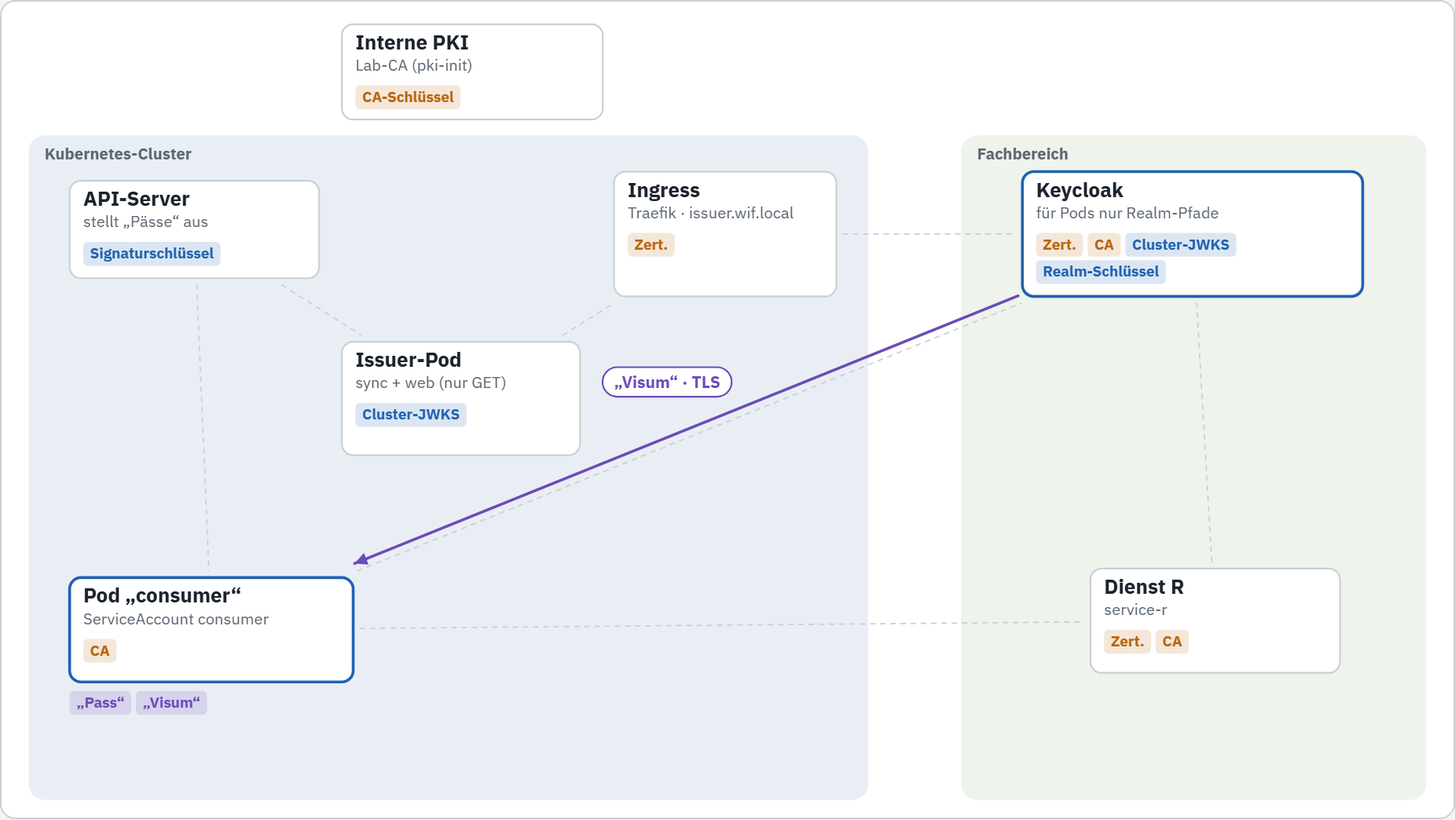
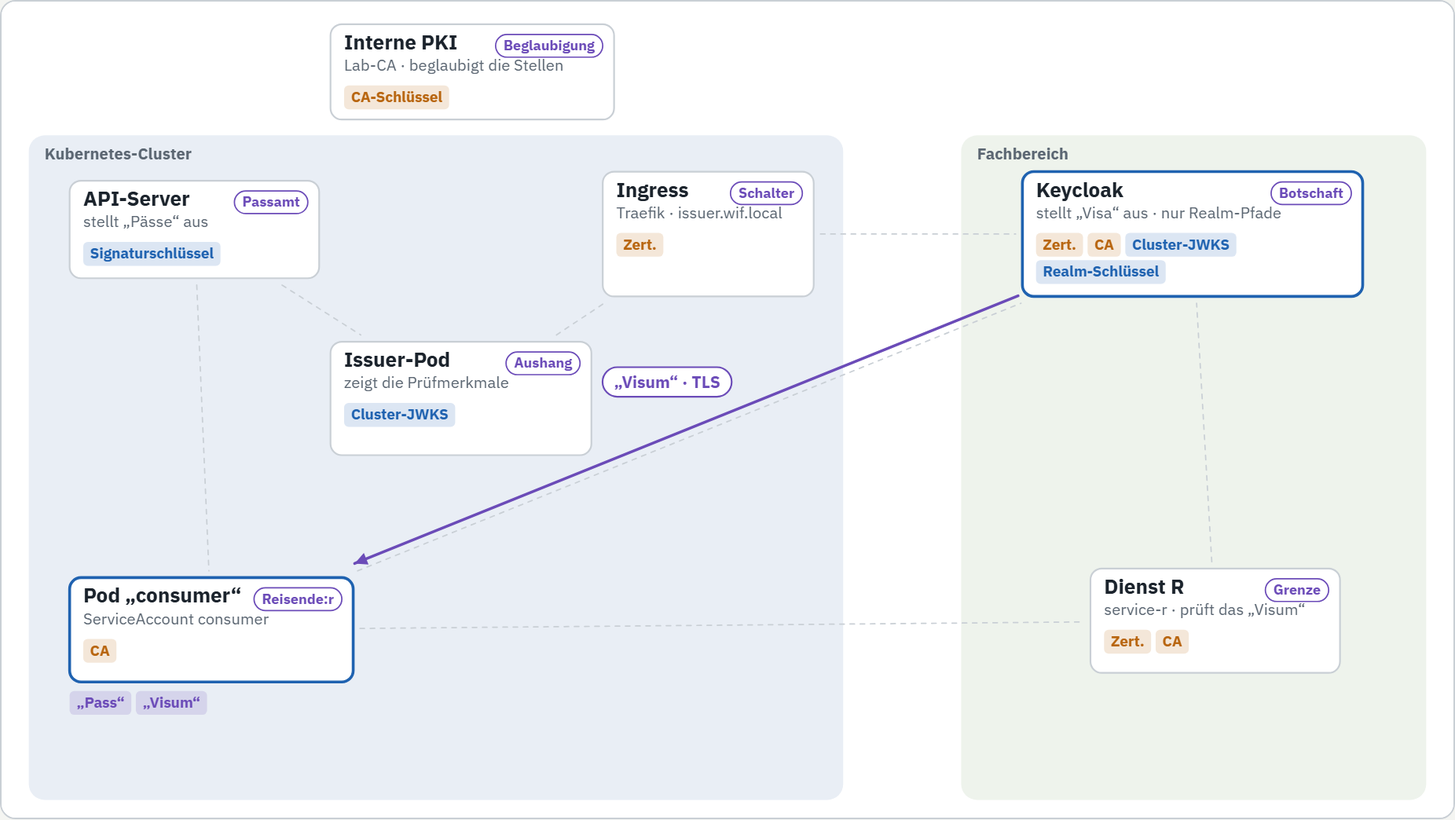
docs: carry the passport/visa picture through the animation
Every node shows its technical name and its role in the picture
(Passamt, Aushang, Schalter, Reisende:r, Botschaft, Grenze,
Beglaubigung), using the terms of the slide "idee". Labels and step
texts name JWKS as "Prüfmerkmale" alongside the technical term; the
header maps the analogy to the technical names. Still image and
offline build regenerated.

diff --git a/docs/praesentation/offline/animation.html b/docs/praesentation/offline/animation.html
@@ -90,7 +90,7 @@ body.embed .panel { max-height: 100vh; overflow-y: auto; }
 <body>
 <header>
   <h1>Workload Identity Federation: Ablauf Schritt für Schritt</h1>
-  <p>PoC k8s-workload-identity-federation-lab · vom „Pass“ zum „Visum“ bis zum Aufruf von Dienst R · jeder Schritt per Klick</p>
+  <p>PoC k8s-workload-identity-federation-lab · „Pass“ = ServiceAccount-Token · „Visum“ = Access-Token · „Prüfmerkmale“ = JWKS · jeder Schritt per Klick</p>
 </header>
 <div class="stage">
   <div>
@@ -102,6 +102,7 @@ body.embed .panel { max-height: 100vh; overflow-y: auto; }
       <span><i style="background:var(--ok)"></i>erfolgreich</span>
       <span><i style="background:var(--bad)"></i>abgelehnt</span>
       <span><i style="background:transparent; border:1.5px dashed var(--line)"></i>mögliche Verbindung</span>
+      <span><i style="background:transparent; border:1.5px solid var(--token); border-radius:6px; width:20px"></i>Rolle im Bild „Pass und Visum“</span>
     </div>
   </div>
   <aside class="panel" aria-live="polite">
@@ -127,16 +128,16 @@ const W = 1280, H = 720;
 
 // Knoten im Entwurfsraster 1280 x 720
 const N = {
-  pki: { x: 300, y: 20,  w: 230, h: 84, t: "Interne PKI", s: "Lab-CA (pki-init)" },
-  api: { x: 60,  y: 158, w: 220, h: 86, t: "API-Server", s: "stellt „Pässe“ aus" },
-  iss: { x: 300, y: 300, w: 210, h: 100, t: "Issuer-Pod", s: "sync + web (nur GET)" },
-  pod: { x: 60,  y: 508, w: 250, h: 92, t: "Pod „consumer“", s: "ServiceAccount consumer" },
-  ing: { x: 540, y: 150, w: 196, h: 110, t: "Ingress", s: "Traefik · issuer.wif.local" },
-  kc:  { x: 900, y: 150, w: 300, h: 110, t: "Keycloak", s: "für Pods nur Realm-Pfade" },
-  r:   { x: 960, y: 500, w: 220, h: 92, t: "Dienst R", s: "service-r" }
+  pki: { x: 290, y: 20,  w: 250, h: 84, t: "Interne PKI", a: "Beglaubigung", s: "Lab-CA · beglaubigt die Stellen" },
+  api: { x: 60,  y: 158, w: 220, h: 86, t: "API-Server", a: "Passamt", s: "stellt „Pässe“ aus" },
+  iss: { x: 290, y: 300, w: 230, h: 100, t: "Issuer-Pod", a: "Aushang", s: "zeigt die Prüfmerkmale" },
+  pod: { x: 60,  y: 508, w: 250, h: 92, t: "Pod „consumer“", a: "Reisende:r", s: "ServiceAccount consumer" },
+  ing: { x: 530, y: 150, w: 186, h: 110, t: "Ingress", a: "Schalter", s: "Traefik · issuer.wif.local" },
+  kc:  { x: 900, y: 150, w: 300, h: 110, t: "Keycloak", a: "Botschaft", s: "stellt „Visa“ aus · nur Realm-Pfade" },
+  r:   { x: 960, y: 500, w: 220, h: 92, t: "Dienst R", a: "Grenze", s: "service-r · prüft das „Visum“" }
 };
 const ZONES = [
-  { x: 24, y: 118, w: 740, h: 586, label: "Kubernetes-Cluster", tone: "zone-a" },
+  { x: 24, y: 118, w: 718, h: 586, label: "Kubernetes-Cluster", tone: "zone-a" },
   { x: 846, y: 118, w: 410, h: 586, label: "Fachbereich", tone: "zone-b" }
 ];
 
@@ -150,23 +151,23 @@ const blkTo = (a, x, y, side, text) => ({ k: "block", a, x, y, side, text });
 
 const STEPS = [
   { ph: 0, title: "Überblick: „Pass“, „Visum“, Aufruf",
-    text: "Der Pod bekommt vom Cluster einen „Pass“, tauscht ihn bei Keycloak seines Fachbereichs gegen ein „Visum“ und ruft damit Dienst R auf. Im Pod liegt dafür weder ein Passwort noch ein Client-Zertifikat. Die folgenden Schritte zeigen, was im Hintergrund nötig ist, damit das sicher funktioniert.",
+    text: "Der Pod („Reisende:r“) bekommt vom API-Server des Clusters („Passamt“) einen „Pass“: das ServiceAccount-Token. Bei Keycloak, der „Botschaft“ seines Fachbereichs, tauscht er ihn gegen ein „Visum“, das Access-Token, und zeigt es bei Dienst R („Grenze“) vor. Im Pod liegt dafür weder ein Passwort noch ein Client-Zertifikat. Die folgenden Schritte zeigen, was im Hintergrund nötig ist, damit das sicher funktioniert.",
     il: "", inspect: "",
     segs: [par(mv("api", "pod", "„Pass“", "token"), mv("pod", "kc", "„Pass“ zeigen", "token"), mv("kc", "pod", "„Visum“", "token"), mv("pod", "r", "„Visum“ zeigen", "token"))],
     fx: null },
 
   { ph: 1, title: "Die interne PKI sichert die Verbindungen",
-    text: "Die interne PKI (im Lab: pki-init) stellt Serverzertifikate für den Ingress des Clusters, Keycloak und Dienst R aus. Alle, die eine Gegenstelle prüfen, bekommen das Root-Zertifikat der CA fest hinterlegt. Ein Client-Zertifikat bekommt niemand – weder eine Workload noch eine Komponente des Clusters. Wichtig: Die PKI sichert nur die Verbindungen (TLS). Wer der Pod ist, steht später im „Pass“, nicht in einem Zertifikat.",
+    text: "Die interne PKI (im Lab: pki-init) ist die „Beglaubigung“: Sie bestätigt, dass die Stellen echt sind, und stellt dafür Serverzertifikate für den Ingress des Clusters, Keycloak und Dienst R aus. Alle, die eine Gegenstelle prüfen, bekommen das Root-Zertifikat der CA fest hinterlegt. Ein Client-Zertifikat bekommt niemand – weder eine Workload noch eine Komponente des Clusters. Wichtig: Die PKI sichert nur die Verbindungen (TLS). Wer der Pod ist, steht später im „Pass“, nicht in einem Zertifikat.",
     il: "Wer bekommt was", inspect: "Ingress    Server-Zert. issuer.wif.local\nKeycloak   Server-Zert. + Root-CA\nDienst R   Server-Zert. + Root-CA\nPod        nur Root-CA\nIssuer-Pod nichts von der PKI\nClient-Zertifikate: keine\n(Pfeile im Bild vereinfacht)",
     segs: [par(mv("pki", "ing", "Server-Zert.", "trust"), mv("pki", "kc", "", "trust"))],
     fx: s => { ["ing", "kc", "r"].forEach(n => s.cert.add(n)); ["pod", "kc", "r"].forEach(n => s.ca.add(n)); } },
   { ph: 1, title: "Der Cluster signiert mit eigenem Schlüssel",
-    text: "Der API-Server bekommt ein eigenes Schlüsselpaar für ServiceAccount-Tokens – es stammt nicht von der PKI. Mit dem privaten Schlüssel signiert er jeden „Pass“. Als Aussteller trägt er eine eigene Adresse ein, nicht die des API-Servers: https://issuer.wif.local. Dort sollen Prüfer die öffentlichen Schlüssel finden.",
+    text: "Der API-Server, das „Passamt“, bekommt ein eigenes Schlüsselpaar für ServiceAccount-Tokens – es stammt nicht von der PKI. Mit dem privaten Schlüssel signiert er jeden „Pass“. Als Aussteller trägt er eine eigene Adresse ein, nicht die des API-Servers: https://issuer.wif.local. Dort sollen Prüfer die „Prüfmerkmale“ finden: die öffentlichen Schlüssel (JWKS).",
     il: "Startparameter des API-Servers", inspect: "service-account-issuer\n  = https://issuer.wif.local\nservice-account-jwks-uri\n  = https://issuer.wif.local/openid/v1/jwks",
     segs: [chk("api", ["privater Schlüssel geladen", "Aussteller: https://issuer.wif.local"], "right")],
     fx: s => { s.apiKey = 1; } },
-  { ph: 1, title: "Der Issuer-Pod spiegelt die Schlüssel",
-    text: "Keycloak soll den API-Server nicht erreichen. Deshalb holt sich ein Pod im Cluster, der Issuer-Pod, alle 15 Sekunden Discovery-Dokument und JWKS beim API-Server und liefert die Kopie über den Ingress nur lesend aus. Er übernimmt nur einen plausiblen Stand; ist der API-Server nicht erreichbar, bleibt der letzte gültige Stand stehen. Es gibt keinen Schreibweg von außen und kein Client-Zertifikat. Der private Schlüssel verlässt den API-Server nie.",
+  { ph: 1, title: "Der Issuer-Pod hängt die Prüfmerkmale aus",
+    text: "Keycloak soll den API-Server nicht erreichen. Deshalb holt sich ein Pod im Cluster, der Issuer-Pod („Aushang“), alle 15 Sekunden die Prüfmerkmale – Discovery-Dokument und JWKS – beim API-Server. Die Kopie liefert er nur lesend über den Ingress aus, den einzigen „Schalter“ nach außen. Er übernimmt nur einen plausiblen Stand; ist der API-Server nicht erreichbar, bleibt der letzte gültige Stand stehen. Es gibt keinen Schreibweg von außen und kein Client-Zertifikat. Der private Schlüssel verlässt den API-Server nie.",
     il: "Details", inspect: "Issuer-Pod (Namespace wif-issuer):\n  sync: GET beim API-Server, alle 15 s\n        darf nur Discovery lesen\n  web:  nginx, nur GET, kein Token\nIngress (Traefik):\n  Host issuer.wif.local, nur 2 Pfade\n  Serverzert. der internen PKI\nAusgeliefert werden:\n  JWKS: öffentliche Schlüssel + Key-ID\n  Discovery: sagt, wo die JWKS liegen",
     segs: [mv("api", "iss", "GET · JWKS", "key", undefined, true), chk("iss", ["Aussteller und jwks_uri stimmen", "mindestens ein Schlüssel", "neue Key-ID → Warnung im Log"], "below")],
     fx: s => { s.issJwks = 1; } },
@@ -178,13 +179,13 @@ const STEPS = [
     fx: s => { s.files.push("„Pass“"); } },
 
   { ph: 3, title: "Der Pod fragt bei Keycloak nach Rechten",
-    text: "Der Pod ruft Keycloak seines Fachbereichs auf. Statt Passwort oder Client-Zertifikat legt er seinen „Pass“ vor und nennt die Rechte (Scopes), die er für Dienst R möchte. Vor Keycloak sitzt ein Gateway (im Bild nicht eigens gezeigt): Es lässt nur Anfragen an den Bereich (Realm) des Fachbereichs durch, die Verwaltung von Keycloak bleibt für Pods unerreichbar.",
+    text: "Der Pod ruft Keycloak auf, die „Botschaft“ seines Fachbereichs. Statt Passwort oder Client-Zertifikat legt er seinen „Pass“ vor und nennt die Rechte (Scopes), die er für Dienst R möchte. Vor Keycloak sitzt ein Gateway (im Bild nicht eigens gezeigt): Es lässt nur Anfragen an den Bereich (Realm) des Fachbereichs durch, die Verwaltung von Keycloak bleibt für Pods unerreichbar.",
     il: "Anfrage (gekürzt)", inspect: "POST …/realms/domain-rst/…/token\ngrant_type=client_credentials\n  ← Rechte für die Workload selbst\nclient_assertion=<„Pass“>\n  ← der Nachweis\nscope=r:orders:read r:orders:write\n  ← „r:“ steht für Dienst R",
     segs: [mv("pod", "kc", "POST /token · TLS", "token"), chk("kc", ["Gateway: nur Realm-Pfade"], "below")], fx: null },
-  { ph: 3, title: "Keycloak holt die Schlüssel des Clusters",
-    text: "Im „Pass“ steht als Aussteller https://issuer.wif.local. Diesen Aussteller hat der Fachbereich in seinem Realm als vertrauenswürdig eingetragen – das ist das Gegenstück zu „wir vertrauen dieser CA“. Keycloak lädt die öffentlichen Schlüssel über den Ingress beim Issuer-Pod und merkt sie sich. Das Serverzertifikat am Ingress muss von der internen CA stammen. Den API-Server fragt Keycloak nie.",
+  { ph: 3, title: "Keycloak holt die Prüfmerkmale des Clusters",
+    text: "Im „Pass“ steht als Aussteller https://issuer.wif.local. Diesen Aussteller hat der Fachbereich in seinem Realm als vertrauenswürdig eingetragen – das ist das Gegenstück zu „wir vertrauen dieser CA“. Keycloak lädt die Prüfmerkmale (JWKS) am „Schalter“, dem Ingress, beim Issuer-Pod und merkt sie sich. Das Serverzertifikat am Ingress muss von der internen CA stammen. Den API-Server fragt Keycloak nie.",
     il: "Eintrag im Realm", inspect: "Vertrauenswürdiger Aussteller\n„lab-cluster“:\n  Issuer:\n    https://issuer.wif.local\n  Schlüssel:\n    https://issuer.wif.local/openid/v1/jwks\n\nWeg: Load Balancer (im Lab ingress-lb,\nnur TCP) → Ingress, dort endet TLS\n→ Issuer-Pod, nur GET",
-    segs: [mv("kc", "ing", "GET Schlüssel · TLS", "token"), mv("ing", "iss", "", "token"), mv("iss", "ing", "", "key"), mv("ing", "kc", "Cluster-JWKS · TLS", "key")],
+    segs: [mv("kc", "ing", "GET · TLS", "token"), mv("ing", "iss", "", "token"), mv("iss", "ing", "", "key"), mv("ing", "kc", "Prüfmerkmale (JWKS)", "key")],
     fx: s => { s.jwks.add("kc"); } },
   { ph: 3, title: "Keycloak prüft den „Pass“",
     text: "Keycloak prüft die Signatur mit dem passenden Schlüssel, ob der Pass für Keycloak ausgestellt wurde und ob er noch gilt. Dann sucht es den Eintrag (Client), der zu genau diesem Aussteller und diesem „wer“ gehört. Vergleich zu heute: Statt Merkmalen im Subject-DN ordnet Keycloak über Aussteller + sub zu. Gibt es keinen Eintrag, ist hier Schluss.",
@@ -197,13 +198,13 @@ const STEPS = [
     fx: s => { s.files.push("„Visum“"); } },
 
   { ph: 4, title: "Aufruf von Dienst R",
-    text: "Der Pod ruft Dienst R auf und legt das „Visum“ vor – über normales TLS, ohne Client-Zertifikat: Die Identität steckt im Visum. Den „Pass“ bekommt Dienst R nie zu sehen; er würde ihn ablehnen, weil Aussteller und Empfänger nicht passen.",
+    text: "Der Pod ruft Dienst R auf, die „Grenze“, und legt das „Visum“ vor – über normales TLS, ohne Client-Zertifikat: Die Identität steckt im Visum. Den „Pass“ bekommt Dienst R nie zu sehen; er würde ihn ablehnen, weil Aussteller und Empfänger nicht passen.",
     il: "Anfrage", inspect: "GET https://service-r.wif.local:8443/orders\nAuthorization: Bearer <„Visum“>",
     segs: [mv("pod", "r", "GET /orders · TLS", "token")], fx: null },
-  { ph: 4, title: "Dienst R holt die Schlüssel des Realms",
-    text: "Beim ersten „Visum“ lädt Dienst R die öffentlichen Schlüssel des Realms bei Keycloak und merkt sie sich. Dienst R liegt im Fachbereich und erreicht Keycloak direkt, ohne Gateway. Den Ingress des Clusters braucht Dienst R nicht.",
+  { ph: 4, title: "Dienst R holt die Prüfmerkmale des Realms",
+    text: "Beim ersten „Visum“ lädt Dienst R die Prüfmerkmale der Visa – die öffentlichen Schlüssel des Realms (Realm-JWKS) – bei Keycloak und merkt sie sich. Dienst R liegt im Fachbereich und erreicht Keycloak direkt, ohne Gateway. Den Ingress des Clusters braucht Dienst R nicht.",
     il: "", inspect: "",
-    segs: [mv("r", "kc", "GET Schlüssel · TLS", "token"), mv("kc", "r", "Realm-JWKS · TLS", "key")],
+    segs: [mv("r", "kc", "GET · TLS", "token"), mv("kc", "r", "Prüfmerkmale (Realm-JWKS)", "key")],
     fx: s => { s.jwks.add("r"); } },
   { ph: 4, title: "Dienst R prüft das „Visum“",
     text: "Dienst R ist ein Standard-Spring-Resource-Server. Er prüft Signatur, Aussteller, Empfänger und Ablauf und macht aus jedem Scope eine Authority. Den Namen der Workload (azp) sieht er, entscheidet aber nur nach Scopes.",
@@ -219,11 +220,11 @@ const STEPS = [
     il: "", inspect: "",
     segs: [mv("pod", "r", "DELETE /orders/7", "token"), mv("r", "pod", "403", "bad")], fx: null },
   { ph: 5, title: "Gegenprobe: nur die Ingress-Route, kein Weg zum API-Server",
-    text: "Vom Cluster erreicht Keycloak nur die Ingress-Route mit den zwei Pfaden für Discovery-Dokument und JWKS, und auch die nur lesend. Ein anderer Host wird am Ingress abgewiesen. Zum API-Server führt kein Netzweg, und Zugangsdaten dafür hat Keycloak nicht – es braucht sie auch nicht. Dienst R braucht nur Keycloak.",
+    text: "Vom Cluster erreicht Keycloak nur den „Schalter“: die Ingress-Route mit den zwei Pfaden für Discovery-Dokument und JWKS, und auch die nur lesend. Ein anderer Host wird am Ingress abgewiesen. Zum API-Server führt kein Netzweg, und Zugangsdaten dafür hat Keycloak nicht – es braucht sie auch nicht. Dienst R braucht nur Keycloak.",
     il: "Geprüft im Lab", inspect: "GET über ingress-lb       erlaubt\nPUT, POST, DELETE         403\nanderer Pfad              404\nanderer Host (SNI)        kein TLS\nAPI-Server, Node-Port     kein Netzweg",
-    segs: [par(mv("kc", "ing", "nur GET", "ok"), blkTo("kc", 770, 330, "left", "kein Weg zum API-Server"), blkTo("r", 770, 630, "left", "kein Weg zum API-Server"))], fx: null },
+    segs: [par(mv("kc", "ing", "nur GET", "ok"), blkTo("kc", 752, 330, "left", "kein Weg zum API-Server"), blkTo("r", 752, 630, "left", "kein Weg zum API-Server"))], fx: null },
   { ph: 5, title: "Betrieb: Schlüsselwechsel in zwei Phasen",
-    text: "Phase 1 (sa-keys stage): Der neue öffentliche Schlüssel B kommt vorab ins JWKS, signiert wird weiter mit A. Der Issuer-Pod übernimmt B beim nächsten Abgleich und meldet die neue Key-ID im Log. Phase 2 (sa-keys activate), erst wenn B ausgeliefert wird: Ab jetzt signiert B. Kommt ein „Pass“ mit der neuen Key-ID, lädt Keycloak neu und findet sie schon – bereits der erste wird angenommen. A bleibt für noch gültige Pässe im JWKS und fällt beim nächsten Wechsel weg.",
+    text: "Phase 1 (sa-keys stage): Das „Passamt“ hängt das Prüfmerkmal für den neuen Schlüssel B vorab aus, also ins JWKS; signiert wird weiter mit A. Der Issuer-Pod übernimmt B beim nächsten Abgleich und meldet die neue Key-ID im Log. Phase 2 (sa-keys activate), erst wenn B ausgeliefert wird: Ab jetzt signiert B. Kommt ein „Pass“ mit der neuen Key-ID, lädt Keycloak neu und findet sie schon – bereits der erste wird angenommen. A bleibt für noch gültige Pässe im JWKS und fällt beim nächsten Wechsel weg.",
     il: "Schlüssel im Verlauf", inspect: "Zeitpunkt       signiert  im JWKS\nvorher          A         A\nnach stage      A         A, B\nnach activate   B         B, A\n(jeweils Neustart des API-Servers)",
     segs: [chk("api", ["stage: B vorab im JWKS", "signiert weiter mit A"], "right"), mv("api", "iss", "JWKS A + B", "key"), chk("iss", ["liefert B aus", "Warnung im Log: neue Key-ID"], "below"), mv("api", "pod", "„Pass“ (B)", "token"), mv("kc", "ing", "GET (neue Key-ID)", "token"), mv("ing", "kc", "JWKS B + A", "key")],
     fx: s => { s.apiKey = 2; s.issJwks = 2; } }
@@ -365,6 +366,13 @@ const sketch = p => {
     p.fill(col("surface")); p.rect(b.x, b.y, b.w, b.h, 10);
     p.noStroke(); p.fill(col("ink")); p.textAlign(p.LEFT, p.TOP);
     p.textSize(18); p.textStyle(p.BOLD); p.text(b.t, b.x + 12, b.y + 8);
+    if (b.a) {
+      p.textSize(12.5);
+      const aw = p.textWidth(b.a) + 14, ax = b.x + b.w - 10 - aw;
+      p.noFill(); p.stroke(col("token")); p.strokeWeight(1.2); p.rect(ax, b.y + 9, aw, 20, 10);
+      p.noStroke(); p.fill(col("token")); p.textAlign(p.CENTER, p.CENTER); p.text(b.a, ax + aw / 2, b.y + 19.5);
+      p.textAlign(p.LEFT, p.TOP);
+    }
     p.textStyle(p.NORMAL); p.textSize(14); p.fill(col("muted")); p.text(b.s, b.x + 12, b.y + 30);
     // Merkmale, bei Platzmangel in einer zweiten Zeile
     const bl = [];

diff --git a/docs/praesentation/animation/index.html b/docs/praesentation/animation/index.html
@@ -85,7 +85,7 @@ body.embed .panel { max-height: 100vh; overflow-y: auto; }
 <body>
 <header>
   <h1>Workload Identity Federation: Ablauf Schritt für Schritt</h1>
-  <p>PoC k8s-workload-identity-federation-lab · vom „Pass“ zum „Visum“ bis zum Aufruf von Dienst R · jeder Schritt per Klick</p>
+  <p>PoC k8s-workload-identity-federation-lab · „Pass“ = ServiceAccount-Token · „Visum“ = Access-Token · „Prüfmerkmale“ = JWKS · jeder Schritt per Klick</p>
 </header>
 <div class="stage">
   <div>
@@ -97,6 +97,7 @@ body.embed .panel { max-height: 100vh; overflow-y: auto; }
       <span><i style="background:var(--ok)"></i>erfolgreich</span>
       <span><i style="background:var(--bad)"></i>abgelehnt</span>
       <span><i style="background:transparent; border:1.5px dashed var(--line)"></i>mögliche Verbindung</span>
+      <span><i style="background:transparent; border:1.5px solid var(--token); border-radius:6px; width:20px"></i>Rolle im Bild „Pass und Visum“</span>
     </div>
   </div>
   <aside class="panel" aria-live="polite">
@@ -122,16 +123,16 @@ const W = 1280, H = 720;
 
 // Knoten im Entwurfsraster 1280 x 720
 const N = {
-  pki: { x: 300, y: 20,  w: 230, h: 84, t: "Interne PKI", s: "Lab-CA (pki-init)" },
-  api: { x: 60,  y: 158, w: 220, h: 86, t: "API-Server", s: "stellt „Pässe“ aus" },
-  iss: { x: 300, y: 300, w: 210, h: 100, t: "Issuer-Pod", s: "sync + web (nur GET)" },
-  pod: { x: 60,  y: 508, w: 250, h: 92, t: "Pod „consumer“", s: "ServiceAccount consumer" },
-  ing: { x: 540, y: 150, w: 196, h: 110, t: "Ingress", s: "Traefik · issuer.wif.local" },
-  kc:  { x: 900, y: 150, w: 300, h: 110, t: "Keycloak", s: "für Pods nur Realm-Pfade" },
-  r:   { x: 960, y: 500, w: 220, h: 92, t: "Dienst R", s: "service-r" }
+  pki: { x: 290, y: 20,  w: 250, h: 84, t: "Interne PKI", a: "Beglaubigung", s: "Lab-CA · beglaubigt die Stellen" },
+  api: { x: 60,  y: 158, w: 220, h: 86, t: "API-Server", a: "Passamt", s: "stellt „Pässe“ aus" },
+  iss: { x: 290, y: 300, w: 230, h: 100, t: "Issuer-Pod", a: "Aushang", s: "zeigt die Prüfmerkmale" },
+  pod: { x: 60,  y: 508, w: 250, h: 92, t: "Pod „consumer“", a: "Reisende:r", s: "ServiceAccount consumer" },
+  ing: { x: 530, y: 150, w: 186, h: 110, t: "Ingress", a: "Schalter", s: "Traefik · issuer.wif.local" },
+  kc:  { x: 900, y: 150, w: 300, h: 110, t: "Keycloak", a: "Botschaft", s: "stellt „Visa“ aus · nur Realm-Pfade" },
+  r:   { x: 960, y: 500, w: 220, h: 92, t: "Dienst R", a: "Grenze", s: "service-r · prüft das „Visum“" }
 };
 const ZONES = [
-  { x: 24, y: 118, w: 740, h: 586, label: "Kubernetes-Cluster", tone: "zone-a" },
+  { x: 24, y: 118, w: 718, h: 586, label: "Kubernetes-Cluster", tone: "zone-a" },
   { x: 846, y: 118, w: 410, h: 586, label: "Fachbereich", tone: "zone-b" }
 ];
 
@@ -145,23 +146,23 @@ const blkTo = (a, x, y, side, text) => ({ k: "block", a, x, y, side, text });
 
 const STEPS = [
   { ph: 0, title: "Überblick: „Pass“, „Visum“, Aufruf",
-    text: "Der Pod bekommt vom Cluster einen „Pass“, tauscht ihn bei Keycloak seines Fachbereichs gegen ein „Visum“ und ruft damit Dienst R auf. Im Pod liegt dafür weder ein Passwort noch ein Client-Zertifikat. Die folgenden Schritte zeigen, was im Hintergrund nötig ist, damit das sicher funktioniert.",
+    text: "Der Pod („Reisende:r“) bekommt vom API-Server des Clusters („Passamt“) einen „Pass“: das ServiceAccount-Token. Bei Keycloak, der „Botschaft“ seines Fachbereichs, tauscht er ihn gegen ein „Visum“, das Access-Token, und zeigt es bei Dienst R („Grenze“) vor. Im Pod liegt dafür weder ein Passwort noch ein Client-Zertifikat. Die folgenden Schritte zeigen, was im Hintergrund nötig ist, damit das sicher funktioniert.",
     il: "", inspect: "",
     segs: [par(mv("api", "pod", "„Pass“", "token"), mv("pod", "kc", "„Pass“ zeigen", "token"), mv("kc", "pod", "„Visum“", "token"), mv("pod", "r", "„Visum“ zeigen", "token"))],
     fx: null },
 
   { ph: 1, title: "Die interne PKI sichert die Verbindungen",
-    text: "Die interne PKI (im Lab: pki-init) stellt Serverzertifikate für den Ingress des Clusters, Keycloak und Dienst R aus. Alle, die eine Gegenstelle prüfen, bekommen das Root-Zertifikat der CA fest hinterlegt. Ein Client-Zertifikat bekommt niemand – weder eine Workload noch eine Komponente des Clusters. Wichtig: Die PKI sichert nur die Verbindungen (TLS). Wer der Pod ist, steht später im „Pass“, nicht in einem Zertifikat.",
+    text: "Die interne PKI (im Lab: pki-init) ist die „Beglaubigung“: Sie bestätigt, dass die Stellen echt sind, und stellt dafür Serverzertifikate für den Ingress des Clusters, Keycloak und Dienst R aus. Alle, die eine Gegenstelle prüfen, bekommen das Root-Zertifikat der CA fest hinterlegt. Ein Client-Zertifikat bekommt niemand – weder eine Workload noch eine Komponente des Clusters. Wichtig: Die PKI sichert nur die Verbindungen (TLS). Wer der Pod ist, steht später im „Pass“, nicht in einem Zertifikat.",
     il: "Wer bekommt was", inspect: "Ingress    Server-Zert. issuer.wif.local\nKeycloak   Server-Zert. + Root-CA\nDienst R   Server-Zert. + Root-CA\nPod        nur Root-CA\nIssuer-Pod nichts von der PKI\nClient-Zertifikate: keine\n(Pfeile im Bild vereinfacht)",
     segs: [par(mv("pki", "ing", "Server-Zert.", "trust"), mv("pki", "kc", "", "trust"))],
     fx: s => { ["ing", "kc", "r"].forEach(n => s.cert.add(n)); ["pod", "kc", "r"].forEach(n => s.ca.add(n)); } },
   { ph: 1, title: "Der Cluster signiert mit eigenem Schlüssel",
-    text: "Der API-Server bekommt ein eigenes Schlüsselpaar für ServiceAccount-Tokens – es stammt nicht von der PKI. Mit dem privaten Schlüssel signiert er jeden „Pass“. Als Aussteller trägt er eine eigene Adresse ein, nicht die des API-Servers: https://issuer.wif.local. Dort sollen Prüfer die öffentlichen Schlüssel finden.",
+    text: "Der API-Server, das „Passamt“, bekommt ein eigenes Schlüsselpaar für ServiceAccount-Tokens – es stammt nicht von der PKI. Mit dem privaten Schlüssel signiert er jeden „Pass“. Als Aussteller trägt er eine eigene Adresse ein, nicht die des API-Servers: https://issuer.wif.local. Dort sollen Prüfer die „Prüfmerkmale“ finden: die öffentlichen Schlüssel (JWKS).",
     il: "Startparameter des API-Servers", inspect: "service-account-issuer\n  = https://issuer.wif.local\nservice-account-jwks-uri\n  = https://issuer.wif.local/openid/v1/jwks",
     segs: [chk("api", ["privater Schlüssel geladen", "Aussteller: https://issuer.wif.local"], "right")],
     fx: s => { s.apiKey = 1; } },
-  { ph: 1, title: "Der Issuer-Pod spiegelt die Schlüssel",
-    text: "Keycloak soll den API-Server nicht erreichen. Deshalb holt sich ein Pod im Cluster, der Issuer-Pod, alle 15 Sekunden Discovery-Dokument und JWKS beim API-Server und liefert die Kopie über den Ingress nur lesend aus. Er übernimmt nur einen plausiblen Stand; ist der API-Server nicht erreichbar, bleibt der letzte gültige Stand stehen. Es gibt keinen Schreibweg von außen und kein Client-Zertifikat. Der private Schlüssel verlässt den API-Server nie.",
+  { ph: 1, title: "Der Issuer-Pod hängt die Prüfmerkmale aus",
+    text: "Keycloak soll den API-Server nicht erreichen. Deshalb holt sich ein Pod im Cluster, der Issuer-Pod („Aushang“), alle 15 Sekunden die Prüfmerkmale – Discovery-Dokument und JWKS – beim API-Server. Die Kopie liefert er nur lesend über den Ingress aus, den einzigen „Schalter“ nach außen. Er übernimmt nur einen plausiblen Stand; ist der API-Server nicht erreichbar, bleibt der letzte gültige Stand stehen. Es gibt keinen Schreibweg von außen und kein Client-Zertifikat. Der private Schlüssel verlässt den API-Server nie.",
     il: "Details", inspect: "Issuer-Pod (Namespace wif-issuer):\n  sync: GET beim API-Server, alle 15 s\n        darf nur Discovery lesen\n  web:  nginx, nur GET, kein Token\nIngress (Traefik):\n  Host issuer.wif.local, nur 2 Pfade\n  Serverzert. der internen PKI\nAusgeliefert werden:\n  JWKS: öffentliche Schlüssel + Key-ID\n  Discovery: sagt, wo die JWKS liegen",
     segs: [mv("api", "iss", "GET · JWKS", "key", undefined, true), chk("iss", ["Aussteller und jwks_uri stimmen", "mindestens ein Schlüssel", "neue Key-ID → Warnung im Log"], "below")],
     fx: s => { s.issJwks = 1; } },
@@ -173,13 +174,13 @@ const STEPS = [
     fx: s => { s.files.push("„Pass“"); } },
 
   { ph: 3, title: "Der Pod fragt bei Keycloak nach Rechten",
-    text: "Der Pod ruft Keycloak seines Fachbereichs auf. Statt Passwort oder Client-Zertifikat legt er seinen „Pass“ vor und nennt die Rechte (Scopes), die er für Dienst R möchte. Vor Keycloak sitzt ein Gateway (im Bild nicht eigens gezeigt): Es lässt nur Anfragen an den Bereich (Realm) des Fachbereichs durch, die Verwaltung von Keycloak bleibt für Pods unerreichbar.",
+    text: "Der Pod ruft Keycloak auf, die „Botschaft“ seines Fachbereichs. Statt Passwort oder Client-Zertifikat legt er seinen „Pass“ vor und nennt die Rechte (Scopes), die er für Dienst R möchte. Vor Keycloak sitzt ein Gateway (im Bild nicht eigens gezeigt): Es lässt nur Anfragen an den Bereich (Realm) des Fachbereichs durch, die Verwaltung von Keycloak bleibt für Pods unerreichbar.",
     il: "Anfrage (gekürzt)", inspect: "POST …/realms/domain-rst/…/token\ngrant_type=client_credentials\n  ← Rechte für die Workload selbst\nclient_assertion=<„Pass“>\n  ← der Nachweis\nscope=r:orders:read r:orders:write\n  ← „r:“ steht für Dienst R",
     segs: [mv("pod", "kc", "POST /token · TLS", "token"), chk("kc", ["Gateway: nur Realm-Pfade"], "below")], fx: null },
-  { ph: 3, title: "Keycloak holt die Schlüssel des Clusters",
-    text: "Im „Pass“ steht als Aussteller https://issuer.wif.local. Diesen Aussteller hat der Fachbereich in seinem Realm als vertrauenswürdig eingetragen – das ist das Gegenstück zu „wir vertrauen dieser CA“. Keycloak lädt die öffentlichen Schlüssel über den Ingress beim Issuer-Pod und merkt sie sich. Das Serverzertifikat am Ingress muss von der internen CA stammen. Den API-Server fragt Keycloak nie.",
+  { ph: 3, title: "Keycloak holt die Prüfmerkmale des Clusters",
+    text: "Im „Pass“ steht als Aussteller https://issuer.wif.local. Diesen Aussteller hat der Fachbereich in seinem Realm als vertrauenswürdig eingetragen – das ist das Gegenstück zu „wir vertrauen dieser CA“. Keycloak lädt die Prüfmerkmale (JWKS) am „Schalter“, dem Ingress, beim Issuer-Pod und merkt sie sich. Das Serverzertifikat am Ingress muss von der internen CA stammen. Den API-Server fragt Keycloak nie.",
     il: "Eintrag im Realm", inspect: "Vertrauenswürdiger Aussteller\n„lab-cluster“:\n  Issuer:\n    https://issuer.wif.local\n  Schlüssel:\n    https://issuer.wif.local/openid/v1/jwks\n\nWeg: Load Balancer (im Lab ingress-lb,\nnur TCP) → Ingress, dort endet TLS\n→ Issuer-Pod, nur GET",
-    segs: [mv("kc", "ing", "GET Schlüssel · TLS", "token"), mv("ing", "iss", "", "token"), mv("iss", "ing", "", "key"), mv("ing", "kc", "Cluster-JWKS · TLS", "key")],
+    segs: [mv("kc", "ing", "GET · TLS", "token"), mv("ing", "iss", "", "token"), mv("iss", "ing", "", "key"), mv("ing", "kc", "Prüfmerkmale (JWKS)", "key")],
     fx: s => { s.jwks.add("kc"); } },
   { ph: 3, title: "Keycloak prüft den „Pass“",
     text: "Keycloak prüft die Signatur mit dem passenden Schlüssel, ob der Pass für Keycloak ausgestellt wurde und ob er noch gilt. Dann sucht es den Eintrag (Client), der zu genau diesem Aussteller und diesem „wer“ gehört. Vergleich zu heute: Statt Merkmalen im Subject-DN ordnet Keycloak über Aussteller + sub zu. Gibt es keinen Eintrag, ist hier Schluss.",
@@ -192,13 +193,13 @@ const STEPS = [
     fx: s => { s.files.push("„Visum“"); } },
 
   { ph: 4, title: "Aufruf von Dienst R",
-    text: "Der Pod ruft Dienst R auf und legt das „Visum“ vor – über normales TLS, ohne Client-Zertifikat: Die Identität steckt im Visum. Den „Pass“ bekommt Dienst R nie zu sehen; er würde ihn ablehnen, weil Aussteller und Empfänger nicht passen.",
+    text: "Der Pod ruft Dienst R auf, die „Grenze“, und legt das „Visum“ vor – über normales TLS, ohne Client-Zertifikat: Die Identität steckt im Visum. Den „Pass“ bekommt Dienst R nie zu sehen; er würde ihn ablehnen, weil Aussteller und Empfänger nicht passen.",
     il: "Anfrage", inspect: "GET https://service-r.wif.local:8443/orders\nAuthorization: Bearer <„Visum“>",
     segs: [mv("pod", "r", "GET /orders · TLS", "token")], fx: null },
-  { ph: 4, title: "Dienst R holt die Schlüssel des Realms",
-    text: "Beim ersten „Visum“ lädt Dienst R die öffentlichen Schlüssel des Realms bei Keycloak und merkt sie sich. Dienst R liegt im Fachbereich und erreicht Keycloak direkt, ohne Gateway. Den Ingress des Clusters braucht Dienst R nicht.",
+  { ph: 4, title: "Dienst R holt die Prüfmerkmale des Realms",
+    text: "Beim ersten „Visum“ lädt Dienst R die Prüfmerkmale der Visa – die öffentlichen Schlüssel des Realms (Realm-JWKS) – bei Keycloak und merkt sie sich. Dienst R liegt im Fachbereich und erreicht Keycloak direkt, ohne Gateway. Den Ingress des Clusters braucht Dienst R nicht.",
     il: "", inspect: "",
-    segs: [mv("r", "kc", "GET Schlüssel · TLS", "token"), mv("kc", "r", "Realm-JWKS · TLS", "key")],
+    segs: [mv("r", "kc", "GET · TLS", "token"), mv("kc", "r", "Prüfmerkmale (Realm-JWKS)", "key")],
     fx: s => { s.jwks.add("r"); } },
   { ph: 4, title: "Dienst R prüft das „Visum“",
     text: "Dienst R ist ein Standard-Spring-Resource-Server. Er prüft Signatur, Aussteller, Empfänger und Ablauf und macht aus jedem Scope eine Authority. Den Namen der Workload (azp) sieht er, entscheidet aber nur nach Scopes.",
@@ -214,11 +215,11 @@ const STEPS = [
     il: "", inspect: "",
     segs: [mv("pod", "r", "DELETE /orders/7", "token"), mv("r", "pod", "403", "bad")], fx: null },
   { ph: 5, title: "Gegenprobe: nur die Ingress-Route, kein Weg zum API-Server",
-    text: "Vom Cluster erreicht Keycloak nur die Ingress-Route mit den zwei Pfaden für Discovery-Dokument und JWKS, und auch die nur lesend. Ein anderer Host wird am Ingress abgewiesen. Zum API-Server führt kein Netzweg, und Zugangsdaten dafür hat Keycloak nicht – es braucht sie auch nicht. Dienst R braucht nur Keycloak.",
+    text: "Vom Cluster erreicht Keycloak nur den „Schalter“: die Ingress-Route mit den zwei Pfaden für Discovery-Dokument und JWKS, und auch die nur lesend. Ein anderer Host wird am Ingress abgewiesen. Zum API-Server führt kein Netzweg, und Zugangsdaten dafür hat Keycloak nicht – es braucht sie auch nicht. Dienst R braucht nur Keycloak.",
     il: "Geprüft im Lab", inspect: "GET über ingress-lb       erlaubt\nPUT, POST, DELETE         403\nanderer Pfad              404\nanderer Host (SNI)        kein TLS\nAPI-Server, Node-Port     kein Netzweg",
-    segs: [par(mv("kc", "ing", "nur GET", "ok"), blkTo("kc", 770, 330, "left", "kein Weg zum API-Server"), blkTo("r", 770, 630, "left", "kein Weg zum API-Server"))], fx: null },
+    segs: [par(mv("kc", "ing", "nur GET", "ok"), blkTo("kc", 752, 330, "left", "kein Weg zum API-Server"), blkTo("r", 752, 630, "left", "kein Weg zum API-Server"))], fx: null },
   { ph: 5, title: "Betrieb: Schlüsselwechsel in zwei Phasen",
-    text: "Phase 1 (sa-keys stage): Der neue öffentliche Schlüssel B kommt vorab ins JWKS, signiert wird weiter mit A. Der Issuer-Pod übernimmt B beim nächsten Abgleich und meldet die neue Key-ID im Log. Phase 2 (sa-keys activate), erst wenn B ausgeliefert wird: Ab jetzt signiert B. Kommt ein „Pass“ mit der neuen Key-ID, lädt Keycloak neu und findet sie schon – bereits der erste wird angenommen. A bleibt für noch gültige Pässe im JWKS und fällt beim nächsten Wechsel weg.",
+    text: "Phase 1 (sa-keys stage): Das „Passamt“ hängt das Prüfmerkmal für den neuen Schlüssel B vorab aus, also ins JWKS; signiert wird weiter mit A. Der Issuer-Pod übernimmt B beim nächsten Abgleich und meldet die neue Key-ID im Log. Phase 2 (sa-keys activate), erst wenn B ausgeliefert wird: Ab jetzt signiert B. Kommt ein „Pass“ mit der neuen Key-ID, lädt Keycloak neu und findet sie schon – bereits der erste wird angenommen. A bleibt für noch gültige Pässe im JWKS und fällt beim nächsten Wechsel weg.",
     il: "Schlüssel im Verlauf", inspect: "Zeitpunkt       signiert  im JWKS\nvorher          A         A\nnach stage      A         A, B\nnach activate   B         B, A\n(jeweils Neustart des API-Servers)",
     segs: [chk("api", ["stage: B vorab im JWKS", "signiert weiter mit A"], "right"), mv("api", "iss", "JWKS A + B", "key"), chk("iss", ["liefert B aus", "Warnung im Log: neue Key-ID"], "below"), mv("api", "pod", "„Pass“ (B)", "token"), mv("kc", "ing", "GET (neue Key-ID)", "token"), mv("ing", "kc", "JWKS B + A", "key")],
     fx: s => { s.apiKey = 2; s.issJwks = 2; } }
@@ -360,6 +361,13 @@ const sketch = p => {
     p.fill(col("surface")); p.rect(b.x, b.y, b.w, b.h, 10);
     p.noStroke(); p.fill(col("ink")); p.textAlign(p.LEFT, p.TOP);
     p.textSize(18); p.textStyle(p.BOLD); p.text(b.t, b.x + 12, b.y + 8);
+    if (b.a) {
+      p.textSize(12.5);
+      const aw = p.textWidth(b.a) + 14, ax = b.x + b.w - 10 - aw;
+      p.noFill(); p.stroke(col("token")); p.strokeWeight(1.2); p.rect(ax, b.y + 9, aw, 20, 10);
+      p.noStroke(); p.fill(col("token")); p.textAlign(p.CENTER, p.CENTER); p.text(b.a, ax + aw / 2, b.y + 19.5);
+      p.textAlign(p.LEFT, p.TOP);
+    }
     p.textStyle(p.NORMAL); p.textSize(14); p.fill(col("muted")); p.text(b.s, b.x + 12, b.y + 30);
     // Merkmale, bei Platzmangel in einer zweiten Zeile
     const bl = [];

diff --git a/docs/praesentation/slides/gesamtablauf.html b/docs/praesentation/slides/gesamtablauf.html
@@ -1,7 +1,7 @@
 <section id="gesamtablauf">
 <h2>Gesamtablauf Schritt für Schritt (Animation)</h2>
 <div style="display:flex; gap:64px; align-items:flex-start">
-<img src="/_blob/35405697bf04d129068800d4abc8e72c" alt="Standbild der Animation, Schritt 9: Keycloak schickt das „Visum“ an den Pod; im Cluster Issuer-Pod und Ingress" style="width:1100px;height:619px;object-fit:contain;border:2px solid #c9cfd5;border-radius:12px;background:#ffffff;transform:translate(163px, 0)">
+<img src="/_blob/52d2b09a8828e10b6dbca8fc1eb1fa42" alt="Standbild der Animation, Schritt 9: Keycloak schickt das „Visum“ an den Pod; im Cluster Issuer-Pod und Ingress" style="width:1100px;height:619px;object-fit:contain;border:2px solid #c9cfd5;border-radius:12px;background:#ffffff;transform:translate(163px, 0)">
 <div class="col" style="width:500px">
 <p class="colh">16 Schritte, jeder per Klick</p>
 <ol class="pts">
